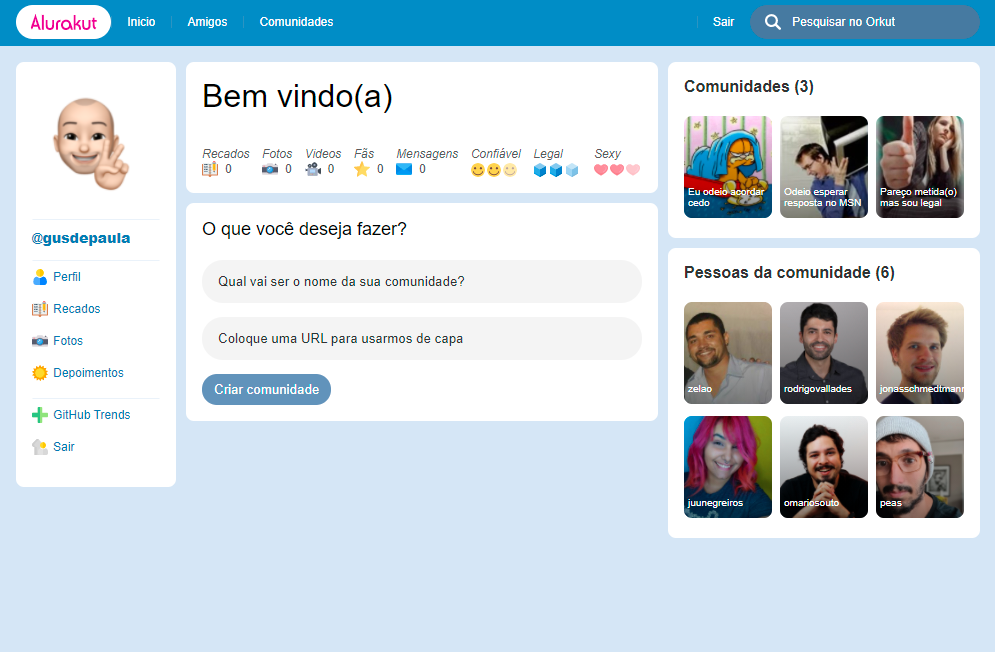
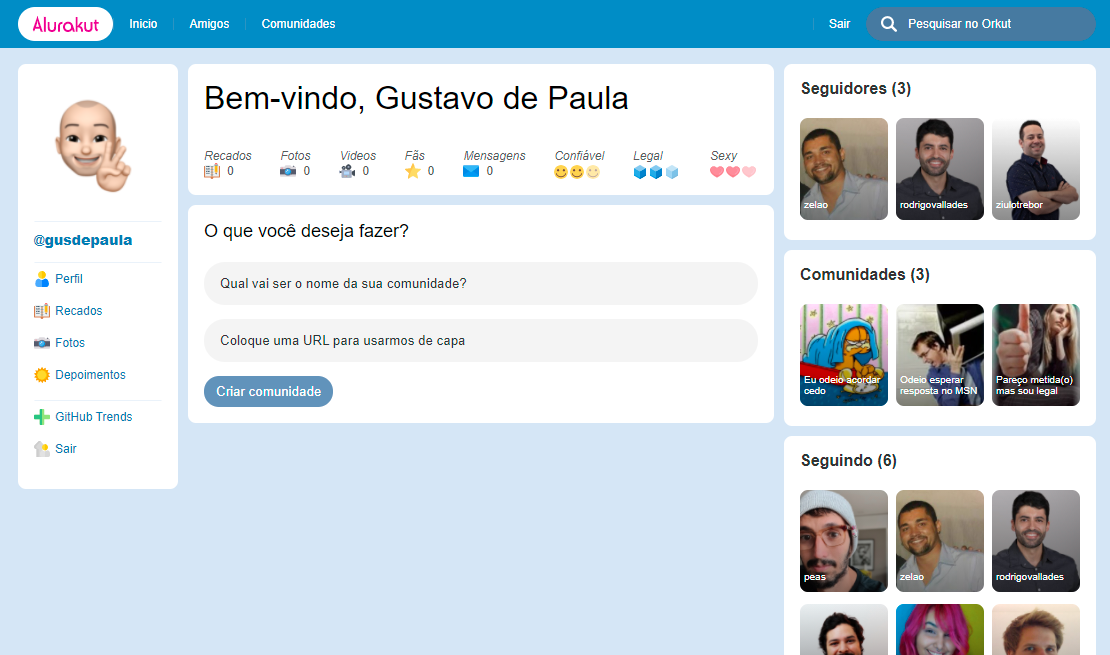
Aula 03 Hooks, useEffect e Protocolo HTTP

diff --git a/pages/index.js b/pages/index.js
@@ -1,4 +1,4 @@
-import React, { useState, useEffect } from "react";
+import React from "react";
 import MainGrid from "../src/components/MainGrid";
 import Box from "../src/components/Box";
 import {
@@ -36,7 +36,7 @@ function ProfileSidebar(propriedades) {
 
 export default function Home() {
   const usuarioAleatorio = "gusdepaula";
-  const [userData, setUserData] = useState(undefined);
+
   const [comunidades, setComunidades] = React.useState([
     {
       id: "d8043eb624c0414fb4384ebc0cd9c07e",
@@ -59,12 +59,15 @@ export default function Home() {
   // const comunidades = comunidades[0];
   // const alteradorDeComunidades/setComunidades = comunidades[1];
 
-  useEffect(() => {
+  const [userData, setUserData] = React.useState([]);
+  React.useEffect(() => {
     fetch(`${URL_GITHUBAPI}/users/${usuarioAleatorio}`)
       .then((res) => res.json())
-      .then((data) =>
-        setUserData((prevUserData) => ({ ...prevUserData, ...data }))
-      );
+      .then((data) => {
+        console.log(data);
+        setUserData((prevUserData) => ({ ...prevUserData, ...data }));
+      })
+      .catch((erro) => console.error(erro));
 
     fetch(`${URL_GITHUBAPI}/users/${usuarioAleatorio}/following`)
       .then((res) => res.json())
@@ -73,8 +76,19 @@ export default function Home() {
           ...prevUserData,
           followingUsers: data,
         }))
-      );
-  }, [usuarioAleatorio]);
+      )
+      .catch((erro) => console.error(erro));
+
+    fetch(`${URL_GITHUBAPI}/users/${usuarioAleatorio}/followers`)
+      .then((res) => res.json())
+      .then((data) =>
+        setUserData((prevUserData) => ({
+          ...prevUserData,
+          followersUsers: data,
+        }))
+      )
+      .catch((erro) => console.error(erro));
+  }, []);
   return (
     <>
       <AlurakutMenu githubUser={usuarioAleatorio} />
@@ -134,6 +148,29 @@ export default function Home() {
           style={{ gridArea: "profileRelationsArea" }}
         >
           <ProfileRelationsBoxWrapper>
+            <h2 className="smallTitle">
+              Seguidores ({userData && userData.followers})
+            </h2>
+
+            <ul>
+              {userData?.followersUsers &&
+                userData.followersUsers.slice(0, 6).map((user) => (
+                  <li key={user.login}>
+                    <a
+                      href={`https://www.github.com/${user.login}`}
+                      target="_blank"
+                    >
+                      <img
+                        src={`https://www.github.com/${user.login}.png`}
+                        alt={user.login}
+                      />
+                      <span>{user.login}</span>
+                    </a>
+                  </li>
+                ))}
+            </ul>
+          </ProfileRelationsBoxWrapper>
+          <ProfileRelationsBoxWrapper>
             <h2 className="smallTitle">Comunidades ({comunidades.length})</h2>
             <ul>
               {comunidades.map((itemAtual) => {
@@ -150,14 +187,17 @@ export default function Home() {
           </ProfileRelationsBoxWrapper>
           <ProfileRelationsBoxWrapper>
             <h2 className="smallTitle">
-              Pessoas da comunidade ({userData && userData.following})
+              Seguindo ({userData && userData.following})
             </h2>
 
             <ul>
               {userData?.followingUsers &&
                 userData.followingUsers.slice(0, 6).map((user) => (
                   <li key={user.login}>
-                    <a href={`/users/${user.login}`}>
+                    <a
+                      href={`https://www.github.com/${user.login}`}
+                      target="_blank"
+                    >
                       <img
                         src={`https://www.github.com/${user.login}.png`}
                         alt={user.login}
